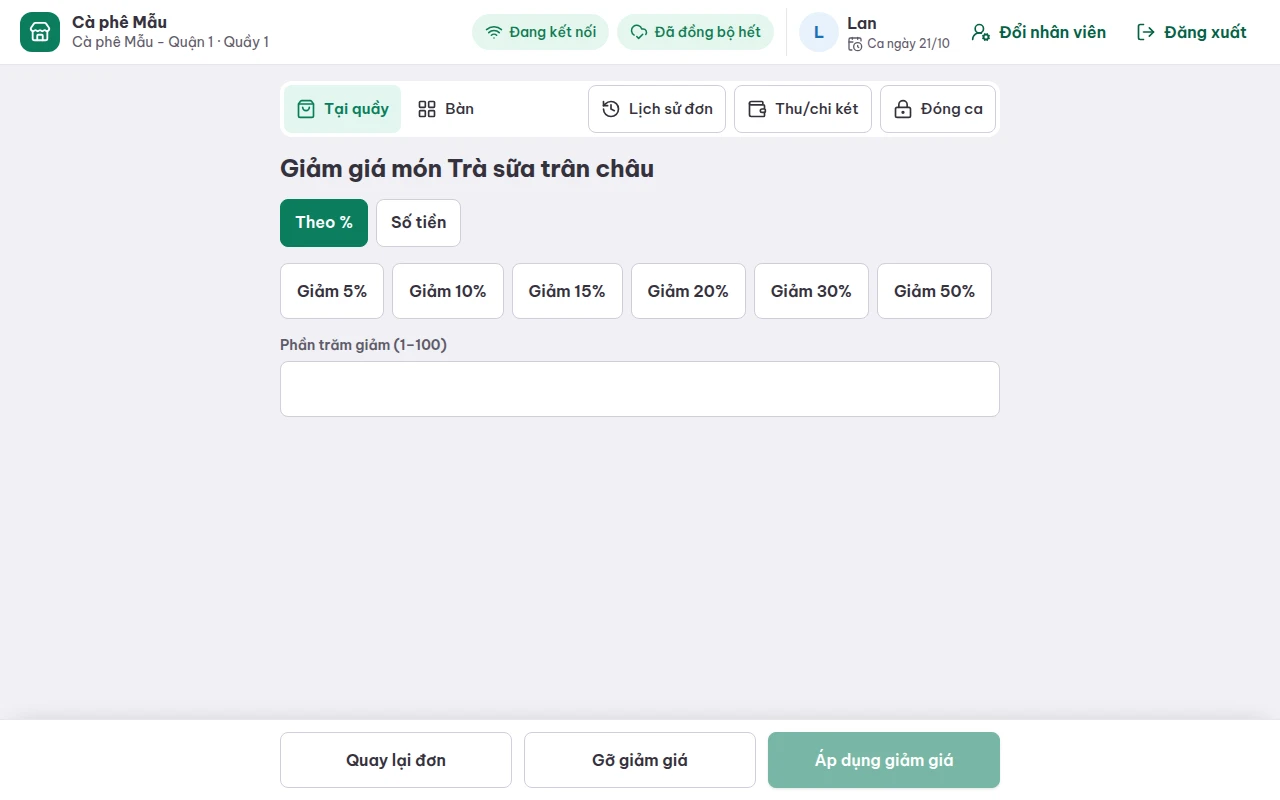
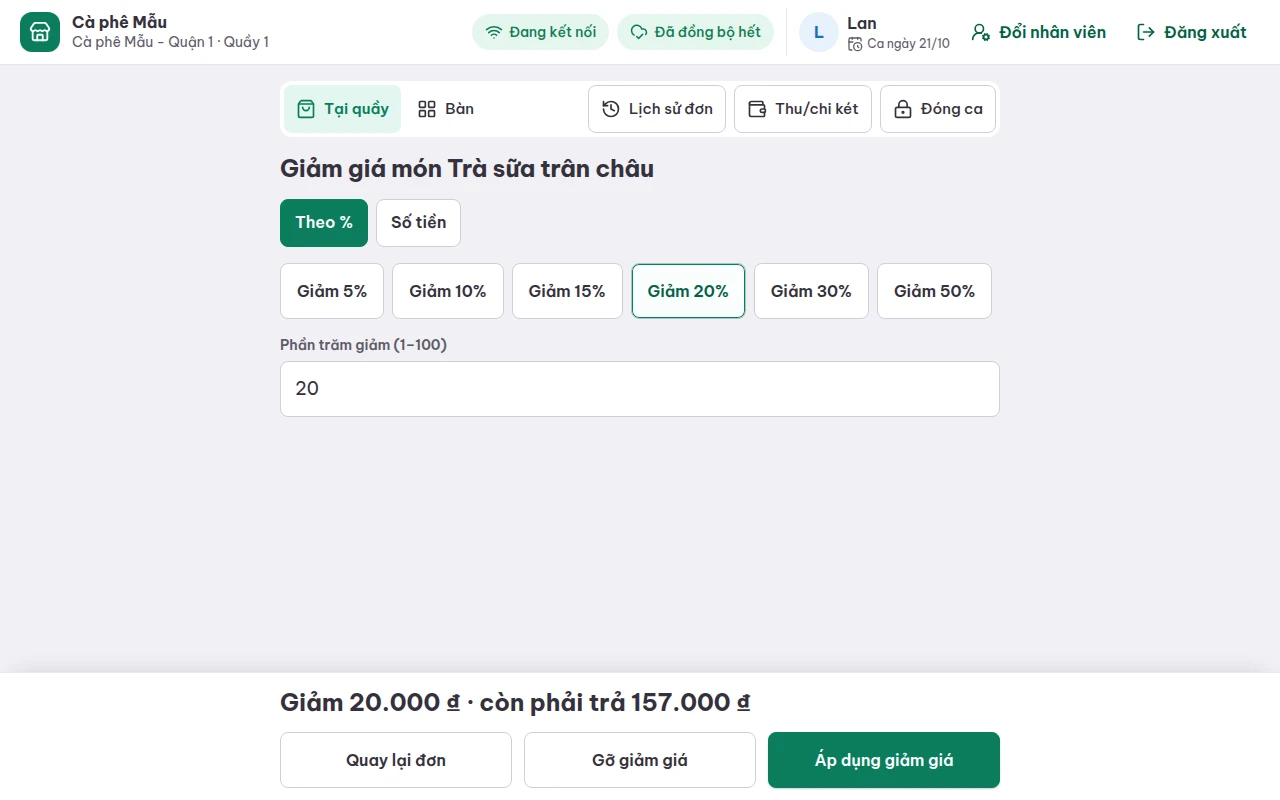
docs(handbook): real refund and close slips, filled-in till shots

Changed region(s): [[0.0312, 0.8438, 0.9688, 1.0], [0.5, 0.3125, 0.5938, 0.4062], [0.2188, 0.4688, 0.25, 0.5]]

diff --git a/apps/pos/test/docs-shots/pretty-operations-screens.tsx b/apps/pos/test/docs-shots/pretty-operations-screens.tsx
@@ -2,7 +2,7 @@ import { formatVnd, vnd } from "@fnb/domain";
 import type { ReactElement } from "react";
 import { cartView } from "../../src/features/order/cart-view";
 import { REFUND_METHODS } from "../../src/features/refund/refund-command";
-import { planRefund } from "../../src/features/refund/refund-plan";
+import { planRefund, refundableLines } from "../../src/features/refund/refund-plan";
 import { refundSlip } from "../../src/features/refund/refund-slip";
 import { shiftCloseSlip } from "../../src/features/shift/shift-close-slip";
 import { readStoredShift } from "../../src/features/shift/stored-shift";
@@ -17,10 +17,10 @@ import { SaleScreen } from "../../src/screens/sale/sale-screen";
 import { CashMoveScreen } from "../../src/screens/shift/cash-move-screen";
 import { CloseShiftScreen } from "../../src/screens/shift/close-shift-screen";
 import { RoundSlipsScreen } from "../../src/screens/table-order/round-slips-screen";
-import { ADJUSTED, REFUND_LINES, dayHistory } from "./pretty-adjusted-order";
+import { ADJUSTED, dayHistory } from "./pretty-adjusted-order";
 import { PROFILE } from "./pretty-menu";
 import { ORDER, PRICED, STAFF, menu, now } from "./pretty-order";
-import { tillHeader } from "./pretty-selling-screens";
+import { tillBar, tillHeader } from "./pretty-selling-screens";
 
 // Voids, discounts, the drawer, closing the shift, the day's orders and refunds at the
 // sample café, for the handbook's pictures.
@@ -51,6 +51,35 @@ const shift = readStoredShift({
   close: null,
 })!;
 const itemName = "Trà sữa trân châu";
+// One of the two milk teas comes back.
+const refund = planRefund({
+  sale,
+  refunds: [],
+  selection: new Map([[sale.lines.find((l) => l.parentLineId === null)!.id, 1]]),
+  refundOrderId: "0199f000-0000-7000-8000-00000000f001",
+  businessDate: "2026-10-21",
+});
+const refundJob = refundSlip({
+  menu,
+  sale,
+  refund,
+  refundNo: 3,
+  method: REFUND_METHODS.cash,
+  cashierName: STAFF.cashier,
+  at: now,
+});
+const closeJob = shiftCloseSlip({
+  menu,
+  shift,
+  assessment: {
+    expectedCash: figures.expectedCash,
+    countedCash: vnd(1_790_000),
+    difference: vnd(-9_000),
+    needsAcceptance: false,
+  },
+  staffName: STAFF.cashier,
+  at: now,
+});
 
 export const OPERATIONS_SCREENS = {
   // The till shows the sheet in place of the screen that asked for it.
@@ -89,7 +118,11 @@ export const OPERATIONS_SCREENS = {
     <DiscountScreen
       header={header}
       title={vi.adjust.discount.titleLine(itemName)}
-      preview={() => ({ discount: vnd(18_000), amountDue: vnd(Number(PRICED.totals.amountDue) - 18_000) })}
+      // A share of the two milk teas (100.000 đ), or the amount typed.
+      preview={(input) => {
+        const off = input.kind === "percent" ? (100_000 * input.rate) / 10_000 : Number(input.amount);
+        return { discount: vnd(off), amountDue: vnd(Number(PRICED.totals.amountDue) - off) };
+      }}
       onConfirm={never}
       onRemove={never}
       onBack={nothing}
@@ -135,41 +168,30 @@ export const OPERATIONS_SCREENS = {
     <RefundScreen
       header={null}
       orderNo={ORDER.deviceOrderNo}
-      lines={REFUND_LINES}
-      preview={() => ({ payout: vnd(35_000) })}
+      lines={refundableLines(sale, [])}
+      preview={() => ({ payout: refund.payout })}
       onConfirm={never}
       onBack={nothing}
     />
   ),
+  // The layout test shows both slips on one screen; the till shows each after its own step.
   "refund-and-close-slips": () => (
     <RoundSlipsScreen
-      header={null}
+      header={header}
       title={vi.refund.doneTitle}
-      notice={vi.refund.done(formatVnd(vnd(35_000)), ORDER.deviceOrderNo)}
-      slips={[
-        refundSlip({
-          menu,
-          sale,
-          refund: planRefund({
-            sale,
-            refunds: [],
-            selection: new Map([[sale.lines.find((l) => l.parentLineId === null)!.id, 1]]),
-            refundOrderId: "0199f000-0000-7000-8000-00000000f001",
-            businessDate: "2026-10-21",
-          }),
-          refundNo: 3,
-          method: REFUND_METHODS.cash,
-          cashierName: STAFF.cashier,
-          at: now,
-        }),
-        shiftCloseSlip({
-          menu,
-          shift,
-          assessment: { expectedCash: figures.expectedCash, countedCash: vnd(1_790_000), difference: vnd(-9_000), needsAcceptance: false },
-          staffName: STAFF.cashier,
-          at: now,
-        }),
-      ].map((job) => ({ job, outcome: { status: "preview_only" as const } }))}
+      notice={vi.refund.done(formatVnd(refund.payout), ORDER.deviceOrderNo)}
+      backLabel={vi.refund.backToHistory}
+      slips={[{ job: refundJob, outcome: { status: "preview_only" } }]}
+      onBack={nothing}
+    />
+  ),
+  "close-shift-slip": () => (
+    <RoundSlipsScreen
+      header={tillBar()}
+      title={vi.closeShift.doneTitle}
+      notice={vi.closeShift.done(formatVnd(vnd(-9_000)))}
+      backLabel={vi.closeShift.openNext}
+      slips={[{ job: closeJob, outcome: { status: "preview_only" } }]}
       onBack={nothing}
     />
   ),

diff --git a/apps/pos/test/docs-shots/pretty-selling-screens.tsx b/apps/pos/test/docs-shots/pretty-selling-screens.tsx
@@ -27,21 +27,26 @@ const never = () => new Promise<never>(() => {});
 const nothing = () => {};
 const ONLINE: TillSyncStatus = { connection: "online", pending: 0, needsAttention: 0 };
 
-/** The bar on top of a signed-in till, and below it the selling modes and the tools. */
+/** The bar on top of every screen of a signed-in till. */
+export const tillBar = (status: TillSyncStatus = ONLINE) => (
+  <TillHeader
+    branchName={SHOP.branch}
+    brandName={SHOP.brand}
+    deviceName={SHOP.device}
+    staffName={STAFF.cashier}
+    shiftDate="2026-10-21"
+    status={status}
+    onOpenNeedsAttention={nothing}
+    onSwitchStaff={nothing}
+    onSignOut={nothing}
+  />
+);
+
+/** The bar, and below it the selling modes and the till's tools. */
 export function tillHeader(mode: "counter" | "tables", status: TillSyncStatus = ONLINE): ReactNode {
   return (
     <>
-      <TillHeader
-        branchName={SHOP.branch}
-        brandName={SHOP.brand}
-        deviceName={SHOP.device}
-        staffName={STAFF.cashier}
-        shiftDate="2026-10-21"
-        status={status}
-        onOpenNeedsAttention={nothing}
-        onSwitchStaff={nothing}
-        onSignOut={nothing}
-      />
+      {tillBar(status)}
       <div className="pos-navbar">
         <SellingModeSwitch mode={mode} onChange={nothing} />
         <TillTools onOpen={nothing} />

diff --git a/apps/pos/test/docs-shots/pretty-adjusted-order.ts b/apps/pos/test/docs-shots/pretty-adjusted-order.ts
@@ -11,7 +11,6 @@ import { orderHistory } from "../../src/features/history/order-history";
 import { newId } from "../../src/features/ids/new-id";
 import { commandMadeLines, itemTree } from "../../src/features/order/command-made-lines";
 import { tillOrderSnapshot } from "../../src/features/order/order-snapshot-for-till";
-import type { RefundableLine } from "../../src/features/refund/refund-plan";
 import { tid } from "../../src/test-support/till-fixtures";
 import { PROFILE } from "./pretty-menu";
 import { ORDER, PRICED } from "./pretty-order";
@@ -89,7 +88,3 @@ export function dayHistory() {
   return orderHistory(views, "2026-10-21", DEVICE);
 }
 
-/** What the guest of order 27 can give back. */
-export const REFUND_LINES: RefundableLine[] = PRICED.lines
-  .filter((line) => line.parentLineId === null)
-  .map((item) => ({ item, sold: Number(item.quantity), refundable: Number(item.quantity) }));

diff --git a/apps/pos/test/docs-shots/handbook-shot-list.ts b/apps/pos/test/docs-shots/handbook-shot-list.ts
@@ -9,11 +9,17 @@ export interface HandbookShot {
   readonly taps?: readonly (readonly [string, number])[];
 }
 
-/** The drawer counted note by note: 1.790.000 đ at the close, 500.000 đ at the open. */
+/** Taps that fill a screen in: the drawer counted note by note, a discount, a refund. */
 const TAPS: Readonly<Record<string, readonly (readonly [string, number])[]>> = {
   "open-shift": [
     ["+ 200.000", 2],
     ["+ 100.000", 1],
+  ],
+  discount: [["Giảm 20%", 1]],
+  "void-line": [["Pha/làm sai món", 1]],
+  refund: [
+    ["Thêm một Trà sữa trân châu", 1],
+    ["Khách trả lại món", 1],
   ],
   "close-shift": [
     ["+ 500.000", 3],
@@ -53,6 +59,7 @@ const TILL = [
   "order-history",
   "refund",
   "refund-and-close-slips",
+  "close-shift-slip",
   "needs-attention",
   "sale-offline",
 ];

diff --git a/docs/handbook/may-quay/10-phieu-in.md b/docs/handbook/may-quay/10-phieu-in.md
@@ -51,18 +51,22 @@ Phiếu tự ra theo thao tác; không cần quyền riêng. In lại hóa đơn
 
 > Bản xem trước — máy này chưa nối máy in, phiếu chưa được in.
 
-Thu ngân đọc phiếu trên màn (hoặc xoay màn cho pha chế xem). Tem ly hiện **không dấu** (đúng như máy in tem sẽ in); các phiếu khác hiện đầy đủ tiếng Việt.
+Thu ngân đọc phiếu trên màn (hoặc xoay màn cho pha chế xem). Tem ly hiện **không dấu** (đúng như máy in tem sẽ in); các phiếu khác hiện đầy đủ tiếng Việt. Phiếu giữ đúng cột như trên giấy 80 mm, nên ô phiếu hẹp hơn tờ giấy thì cột số tiền bên phải bị khuất: **kéo ngang trong ô phiếu** để xem hết.
 
 1. **Sau khi thanh toán đơn quầy**: màn **Đã thanh toán** xếp các phiếu: phiếu pha chế, tem dán ly, hóa đơn (xem ảnh ở [04-thanh-toan.md](04-thanh-toan.md)).
 2. **Ở bàn**: bấm **Gửi bếp** hoặc **In tạm tính** ⇒ màn phiếu mở ra (**Phiếu bếp vừa gửi** / **Phiếu tạm tính**); bấm **Quay lại đơn**.
 
    ![Phiếu bếp và phiếu tạm tính của bàn T02](../images/may-quay/table-slips.webp)
 
-3. **Hoàn tiền** và **đóng ca**: phiếu hoàn tiền / phiếu chốt ca hiện ngay sau thao tác.
+3. **Hoàn tiền**: màn **Đã hoàn tiền** hiện phiếu hoàn tiền; bấm **Về lịch sử đơn**.
 
-   ![Phiếu hoàn tiền và phiếu chốt ca](../images/may-quay/refund-and-close-slips.webp)
+   ![Phiếu hoàn tiền](../images/may-quay/refund-and-close-slips.webp)
 
-4. **In lại hóa đơn**: Lịch sử đơn → đơn đã trả → **In lại hóa đơn số …** (xem [08-lich-su-don.md](08-lich-su-don.md)). Đơn đã có hóa đơn điện tử: **In lại bill kèm mã tra cứu** ở màn Đã thanh toán.
+4. **Đóng ca**: màn **Đã đóng ca** hiện phiếu chốt ca (tiền hệ thống, tiền thực tế, chênh lệch, chỗ ký nhận); bấm **Mở ca mới**.
+
+   ![Phiếu chốt ca](../images/may-quay/close-shift-slip.webp)
+
+5. **In lại hóa đơn**: Lịch sử đơn → đơn đã trả → **In lại hóa đơn số …** (xem [08-lich-su-don.md](08-lich-su-don.md)). Đơn đã có hóa đơn điện tử: **In lại bill kèm mã tra cứu** ở màn Đã thanh toán.
 
 ### Khi có máy in (ứng dụng cài — sắp có)
 
